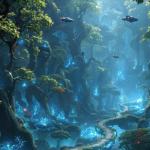
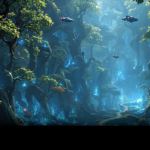
Selection text

Changed region(s): [[0.0, 0.72, 1.0, 1.0]]

diff --git a/Core/Game/panel.py b/Core/Game/panel.py
@@ -28,6 +28,12 @@ class Panel:
         self.hint_x = (self.width - self.hint_surface.get_width()) // 2
         self.hint_y = 5  # Small padding from top
 
+        # Add object name text properties
+        self.object_name_font = pygame.font.Font(None, 20)  # Font for object name
+        self.object_name_color = (255, 255, 255)  # White color for object name
+        self.object_name_text = "No selection"  # Default text
+        self.object_name_surface = self.object_name_font.render(self.object_name_text, True, self.object_name_color)
+
         # Define areas dimensions and margins
         self.margin = 20  # Margin between areas and edges
         self.left_area_size = 150  # Square area for unit/building display
@@ -346,6 +352,19 @@ class Panel:
         
         return (tooltip_surface, (tooltip_x, tooltip_y))
 
+    def set_object_name(self, name):
+        """Update the object name text"""
+        self.object_name_text = name if name else "No selection"
+        self.object_name_surface = self.object_name_font.render(self.object_name_text, True, self.object_name_color)
+
+    def render_text(self):
+        """Render just the text part of the panel"""
+        if self.visible or self.current_y < self.screen.get_height() - self.handle_height:
+            # Draw object name in the bottom 25 pixels of the left area
+            name_x = self.left_area_pos[0] + (self.left_area_size - self.object_name_surface.get_width()) // 2
+            name_y = self.current_y + self.left_area_pos[1] + self.area_height - 25  # Bottom 25 pixels
+            self.screen.blit(self.object_name_surface, (name_x, name_y))
+
     def render(self):
         # Calculate target positions
         if self.visible:
@@ -367,6 +386,8 @@ class Panel:
             
             # Draw the three areas
             panel_y = self.current_y
+            
+            # Draw the left area background
             self.screen.blit(self.left_area, (self.left_area_pos[0], panel_y + self.left_area_pos[1]))
             
             # Draw middle area and its buttons

diff --git a/Core/Game/game.py b/Core/Game/game.py
@@ -321,6 +321,7 @@ class Game:
                 else:
                     self.selected_object = None  # Clear current selection
                     self.selected_object_image = None  # Clear selected object image
+                    self.panel.set_object_name("No selection")  # Reset object name
                     mouse_x, mouse_y = mouse_pos
                     
                     # Convert screen coordinates to world coordinates
@@ -361,6 +362,9 @@ class Game:
                                     self.selected_object_image = self.default_selection
                             except:
                                 self.selected_object_image = self.default_selection
+                            
+                            # Set the object name in the panel
+                            self.panel.set_object_name(f"{obj['type'].capitalize()} {obj['id']}")
                             break
 
         elif event.type == pygame.MOUSEBUTTONUP:
@@ -642,6 +646,9 @@ class Game:
             
             # Draw the left area border on top
             self.screen.blit(self.horizontal_left_area, left_area_rect)
+
+            # Render panel text after drawing the selected object
+            self.panel.render_text()
 
             # Draw life bar if an object is selected
             if self.selected_object:
